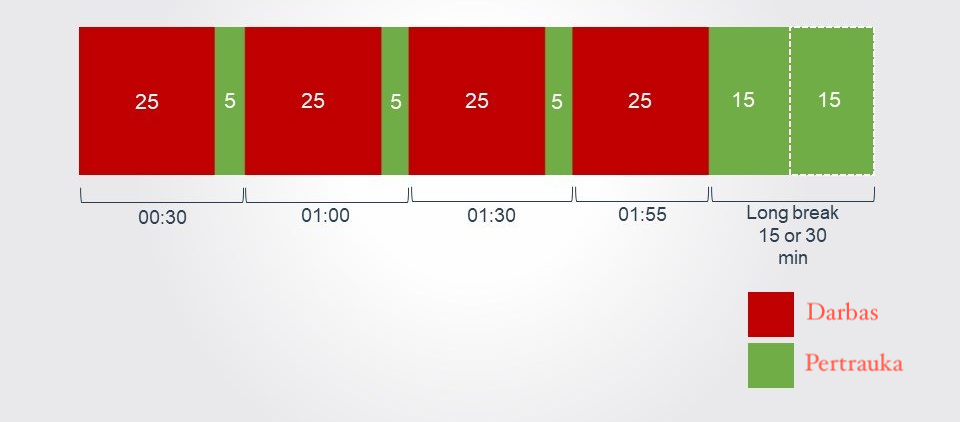
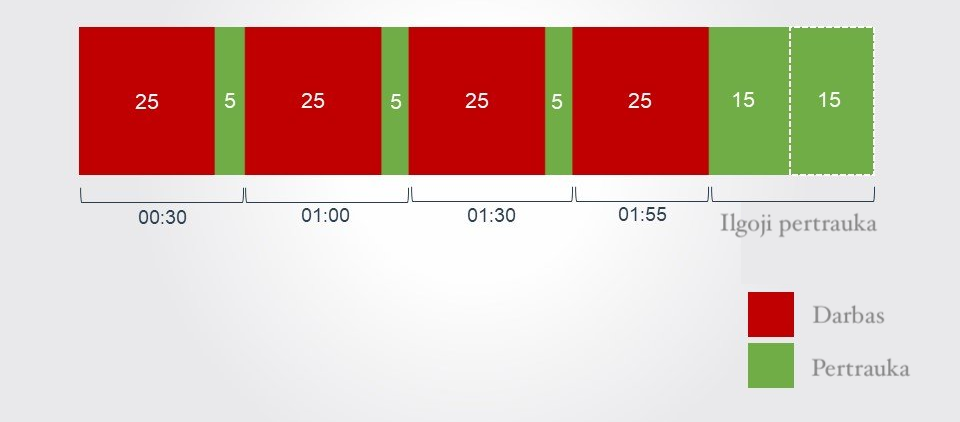
Improve typos in the article

Changed region(s): [[0.75, 0.4929, 0.9375, 0.6469], [0.8438, 0.8318, 0.9688, 0.8934], [0.8438, 0.7085, 0.9375, 0.7701]]

diff --git a/src/css/main.css b/src/css/main.css
@@ -53,6 +53,10 @@ p {
   @apply pl-8;
 }
 
+.custom-page-content ul > li {
+  @apply mb-2;
+}
+
 .custom-page-content a {
   @apply font-semibold;
 }

diff --git a/src/_posts/src/_posts/2020-01-20-pomodoro-technika-ir-patirtis-po-7-metu-naudojimo.md b/src/_posts/src/_posts/2020-01-20-pomodoro-technika-ir-patirtis-po-7-metu-naudojimo.md
@@ -7,25 +7,27 @@ toc: true
 ---
 
 2012 metais pirmą kartą perskaičiau apie Pomodoro techniką. Tais laikais, lyginant su dabar,
-2020, technika tikrai nebuvo populiari. Ir žmonių rašančių apie tai buvo vienetai.
+technika tikrai nebuvo populiari. Ir žmonių rašančių apie tai buvo vienetai.
 
 Kadangi esu mėgėjas visokių straipsnių / knygų / seminarų apie produktyvumą -
-nekantravau išbandyti. Dabar, panaudojus 7+ metus dažnai norisi su kitais pasidalinti,
+nekantravau išbandyti. Dabar, panaudojus daugiau nei 7 metus dažnai norisi su kitais pasidalinti,
 kad tai yra bene pats geriausias produktyvumo įprotis kurį išsiugdžiau.
 
 Prie kompiuterio praleidžiu tikrai daug laiko. Kaip atrodo mano tipinis darbo mėnuo galima
 pamatyti nuotraukoje žemiau.
 
-{% include post_image.html image="/i/2020/toggl_menuo.png" text="Ekranas iš mano Toggl paskyros kur laiką seku pagal Pomodoro techniką" %}
+{% include post_image.html image="/i/2020/toggl_menuo.png" text="Ekranas iš mano Toggl paskyros kur laiką seku pagal Pomodoro metodo dėka" %}
 
 Laiko apskaitą su {% include external_link.html url="https://toggl.com" text="Toggl įrankiu" %} seku
-nuo tada kai pradėjau naudoti patį Pomodoro. Turiu virš 7 metus duomenų kuriuos
+nuo tada kai pradėjau naudoti patį Pomodoro. Turiu virš 7 metų duomenų kuriuos bet kada
 galiu analizuoti.
 
 Mano darbe - laiko vadyba (ar „valdymas“ kaip sako kiti) yra vienas iš būtinųjų
 dalykų kuriuos reikia išsiugdyti, jeigu nori pasiekti gerų rezultatų. Arba tie
-rezultatai gali būti paprasčiausias pinigai / pelnas / atlyginimas. Šiame
-straipsnyje apie tai, kaip Pomodoro man padeda tai pasiekti.
+rezultatai gali būti paprasčiausiai pinigai / pelnas / atlyginimas.
+
+Šis straipsnis apie tai, kaip Pomodoro man padeda pasiekti tikslus ir užsigugdyti tikrai geležinę
+laiko vadybą.
 
 <!-- toc -->
 
@@ -34,8 +36,9 @@ straipsnyje apie tai, kaip Pomodoro man padeda tai pasiekti.
 Tai labai paprasta technika. Nereikės nei daug mokytis nei daug apie ją skaityti. Dažniausiai
 vieno internetinio straipsnio pilnai pakanka. Arba Wikipedia puslapio.
 
-Technika sukurta 1980 metais ir neturi nieko daugiau, kaip tik laiko paskirstymą intervalais.
-Tradiciškai 25 minutės darbo susikaupus su trumpom, tarkime 5 minučių, pertraukėlėmis.
+Technika sukurta 1980 metais (autorius Francesco Cirillo) ir neturi nieko daugiau, kaip tik
+laiko paskirstymą intervalais. Tradiciškai 25 minutės darbo susikaupus, su trumpom, tarkime
+5 minučių, pertraukėlėmis.
 
 Taip pat tradiciškai, 4 Pomodoro (tos minėtos 25 min.) užbaigiamos ilgesne pertrauka - 15 min.
 arba panašiai.
@@ -47,10 +50,9 @@ iliustruotas žemiau:
 
 Štai kaip tai atrodo mano tipinėje dienoje:
 
-* Darbą pradedu 5 ryto (iš tikrųjų).
+* Darbą pradedu 5 ryto kasdien.
 * Su Toggl Chrome Extension pasileidžiu laikmatį 25 minutėms.
-* Dirbu prie vienos užduoties vienu metu. Jokių Facebook, Slack, chatų ar kitų
-  socialinių tinklų.
+* Dirbu prie vienos užduoties vienu metu. Jokių Facebook, kitų socialinių tinklų ar RSS skaitymo.
 * Suskambus laikmačiui darau kelių minučių pertraukėlę.
 
 ## Ką daryti per pertraukėles
@@ -64,18 +66,21 @@ RSS ar kitokius informacinius srautus. Aš ir pats taip darau.
 
 Tačiau pertraukas daryti yra labai svarbu. Tikrai ne visos pertraukos turi
 baigtis nuo užduoties kompiuteryje iki kažkokios veiklos kompiuteryje. Taip tik
-pavargs akys, nugara, rankos. Todėl pavaikščioti, atsitraukti - yra labai
-svarbu. Ir ne tik per ilgąją pertrauką.
+pavargs akys, nugara, rankos.
+
+Todėl pavaikščioti, atsitraukti - yra labai svarbu. Ir ne tik per ilgąją pertrauką.
+
+Biuruose rekomenduoju daryti dažną „kavos pertraukėlę“. Namie galima užsiimti įvairia veikla -
+minimaliai apsitvarkyti, palaistyti gėles, ką nors pasiruošti rytojui ar pan.
 
 ## Darbo biure problemos
 
-Yra labai daug studijų apie „darbą“ darbe ir dar daugiau (nebūtinai pagrįstų)
-komentarų ar                           xe
-straipsnių, kad tradiciškai darbuotojas per 8 val. dirba tik daugiausiai 6 valandas. Visos
-kitos valandos „išmetamos į balą“: kavų pertraukėlėms, pasišnekėjimams, susirinkimams, darant
+Yra labai daug studijų apie „darbą“ biure ir dar daugiau (nebūtinai pagrįstų)
+komentarų ar straipsnių, kad tradiciškai darbuotojas per 8 val. dirba tik daugiausiai 6 valandas.
+Visos kitos valandos „išmetamos į balą“: kavų pertraukėlėms, pasišnekėjimams, susirinkimams, darant
 ne su darbu susijusią veiklą (kalbėjimas telefonu, naršymas Facebook).
 
-Ir tokiem daluma Pomodoro technika vistiek greičiausiai netinka. Trumpai tariant, gi mokama už
+Ir tokiems darbams Pomodoro technika vistiek greičiausiai netinka. Trumpai tariant, gi mokama už
 buvimą darbe. Skamba labai žiauriai, bet tai yra tiesa, jeigu darbo įvertinimas nepriklauso
 nuo kažkokių rezultatų.
 
@@ -83,21 +88,23 @@ Tačiau kai darbas yra priklausantis nuo rezultatų - labai svarbu dirbti susika
 iš būtinybių - dirbti tokioje aplinkoje, kur gautumėte tą ramybę.
 
 Triukšminguose biuruose tai šiais laikais nesunkiai ištaisoma - ausinėmis arba ausinukais. Aišku,
-jeigu leidžia galimybės. Ne visuose darbo vietose užsidėti ausines yra mažų mažiausiai mandagu.
+jeigu leidžia galimybės. Ne visose darbo vietose užsidėti ausines yra mažų mažiausiai mandagu.
 
 Kitas trikdis gali būti reiklūs kolegos ar vadovai. Tai viena bėdų labai aktyviose IT įmonėse.
-Man yra tekę dirbti tokiose, ir projektų vadovų priėjimai kas 5 minutes būtų prieš Pomodoro.
+
+Man yra tekę dirbti tokiose. Čia projektų vadovų priėjimai kas 5 minutes būtų stipriai prieš
+Pomodoro.
 
 ## Universali technika
 
 Apskritai, kalbant apie IT, tai Pomodoro yra pirmas dalykas ką rekomenduočiau freelanceriams.
 Jų darbas 100% priklauso nuo rezultatų, ne sedėjimo. Tokia technika man pačiam gerokai atsipirko.
 
-Taigi ši technika puikiai veikia prie kompiuterio sėdintiems darbuotojams - ypač programuotojams,
-dizaineriams, marketingistams, pardavimų vadybininkams ir pan.
+Ši technika puikiai veikia prie kompiuterio sėdintiems darbuotojams - ypač programuotojams,
+dizaineriams, marketingistams, pardavimų vadybininkams, straipsnių rašytojams, tyrėjams ir pan.
 
-Arba tobula technika studentams - žmonėms kuriems dažniausiai reikia **prisiversti prisėsti prie
-studijų**. Dabar žiūrint į praeitį labai gaila, kad tada apie tai nieko nežinojau.
+Taip pat tai tobula technika studentams - žmonėms kuriems dažniausiai reikia **prisiversti
+prisėsti prie studijų**. Dabar žiūrint į praeitį labai gaila, kad tada apie tai nieko nežinojau.
 
 Net ir prasčiausiai besimokantiems studentams skirti vieną Pomodoro kartą į dieną greičiausiai
 duotų naudos. Tiesiog atsisėsti ir studijuoti būna sunku. O nusibrėžus labai aiškią ribą kiek
@@ -105,40 +112,43 @@ ir ko daryti - tarkime 25 minutes - pasiekti galima nesunkiai. Man po 7+ metų n
 technikos tos 25 minutės pralekia dažnai kaip kokios 5.
 
 Greičiausiai ši technika netinka fabriko darbuotojams arba žmonėms kurie turi daug
-pasikartojančio darbo. Tokia technika tik išsekintų smegenis. Kaip minėjau, čia labiau tinka
-nuo rezultatų priklausantiems darbų profiliams.
+pasikartojančio darbo. Tokia technika tik išsekintų smegenis. Bet gali būti labai geras įrankis
+kovoti su tingumu. 25 minutės darbo ir einame „apdovanojimo“ - kavos, pasidaryti pertraukėlę ar
+prasimankštinti.
 
 ## Originalios technikos eiga
 
 Minėjau, kad šis „laiko valdymo“ metodas / technika buvo sugalvota 1980 metais. Ją „sukūrė“
 Francesco Cirillo. Jo originalų metodą sudaro 6 žingsniai.
 
-1) Reikia tiksliai žinoti ką norima padaryti. Arba ką per būsimą Pomodoro laiką norima
-padaryti. Todėl greičiausiai reiks su savimi turėti kažkokią užrašų knygutą ar tiktų koks
+1) Reikia tiksliai žinoti kas norima padaryti. Arba ką per būsimą Pomodoro laiką norima
+pasiekti. Todėl greičiausiai reiks su savimi turėti kažkokią užrašų knygutę ar tiktų koks
 elektroninis darbų sąrašas (angl. „todo list“).
 
 2) Laiko intervalo nustatymas darbui. 25 minutės - kaip minėjau yra tradicinis laikas. Internete
 galima rasti ne vieną variaciją: 30 minučių, 60 minučių, 90 minučių. Nesu matęs, kad kas nors
-darytų ilgesnius intervalus nei pusantros valandos.
+darytų ilgesnius intervalus nei pusantros valandos. Bet esu bandęs ilgesnius intervalus nei 90
+minučių (skaitykite toliau).
 
-3) Darbas arba bandymas atliktį užduotį. Originalioje technikoje mano minėto „susikaupimo“
-nėra. Sakyčiau tai nauja tradicija. Juk 1980 metais nebuvo tokių laiko švaistytojų kaip
-telefonai su pranešimais, el. pašto dėžutės ir pan.
+3) Darbas arba bandymas atlikti užduotį. Originalioje technikoje, mano kelis kartus minėto,
+„susikaupimo“ nėra. Sakyčiau tai nauja tradicija. Juk 1980 metais nebuvo tokių laiko švaistytojų
+kaip telefonai su pranešimais, el. pašto dėžutės ir pan.
 
-4) Atliktų Pomodoro pasižymėjimas. Programinė įranga čia tiktų geriausia. Be minėtų Toggl yra
+4) Atliktų Pomodoro pasižymėjimas. Programinė įranga čia tiktų geriausiai. Be minėtų Toggl yra
 daugybė kitų (ir nemokamų) įrankių tiek kompiuteryje, tiek mobiliame telefone. Daug kas šiais
 laikais turi išmaniuosius laikrodžius. Ir ten tai būtų pasiekiama.
 
 Labai gerai, kad internete yra ne vienas nemokamas įrankis kurio net diegti į kompiuterį
 nereikia. Ar registruotis. Vienas tokių būtų
-{% include external_link.html url="http://www.tomato.es" text="Tomato.es" %}
+{% include external_link.html url="http://www.tomato.es" text="Tomato.es" %} kuris veikia tiesiog
+naršyklėje ir net nereikia registruotis.
 
-6) Po ciklo (4 pomodoro) daroma ilgesnė, 15-30 minučių pertrauka. Originalioje technikoje čia
+6) Po pilno ciklo (4 Pomodoro) daroma ilgesnė, 15-30 minučių pertrauka. Originalioje technikoje čia
 žymėjimo ciklas (4 punktas) pradedamas nuo 0.
 
 ## Sprendžia atidėliojimo problemas
 
-Iš patirties atradau, kad tai labai gerai išsprendžia atidėliojimo problemą. Iš
+Per daug metų atradau, kad tai labai gerai išsprendžia atidėliojimo problemą. Iš
 dalies dėl to ir minėjau studentus - atidėlioti studijų dalykus yra bene
 įprastas dalykas.
 
@@ -172,7 +182,7 @@ ilgesnę pertrauką, bet taip darant daug greičiau pavargsti.
 
 ## Limitas kiek Pomodoro gali padaryti per dieną
 
-Turėjau ir viešą profilį su {% include external_link.html url="http://www.tomato.es/users/5073f55fd43b8100020001f4" text="Pomodoro sekimu - Tomato.es" %}.
+Turiu viešą profilį su {% include external_link.html url="http://www.tomato.es/users/5073f55fd43b8100020001f4" text="Pomodoro sekimu - Tomato.es" %}.
 Jame galima pažiūrėti kaip maždaug atrodė mano tipinės dienos.
 
 {% include post_image.html image="/i/2020/tomato_es_metai.png" text="Nuotrauka iš mano Tomato.es profilio - pomdoro pagal dienas" %}
@@ -187,12 +197,14 @@ Pomodoro per dieną (jeigu laiko intervalas yra 25 min.) jau turbūt būtų per 
 
 Reikia tikrai neužmiršti daryti pertraukas. Be pertraukų greičiau ateina
 nuovargis, produktyvumas ir susikaupimas mažėja. Todėl daugiau Pomodoro - nebūtinai
-geriau atsispindi rezultatuose.
+geriau atsispindi rezultatuose (vėliau).
 
 ## Pomodoro technika vaikams
 
-Turiu du vaikus, tačiau Pomodoro su jais dar neeksperimentavau. Tiesa, yra
-tikrai ne vienas straipsnis apie tai, kaip ši technika gelbsti į mokyklą
+Turiu du vaikus, tačiau Pomodoro su jais dar neeksperimentavau. Jie tam dar per
+maži. Bet manau, kad ateityje tikrai išmėginsiu.
+
+Internete yra ne vienas straipsnis apie tai, kaip ši technika gelbsti į mokyklą
 einantiems vaikams.
 
 Tačiau vaikams 25 minutės - tai amžinybė. Priklausomai nuo amžiaus, bet 25
@@ -204,24 +216,23 @@ rezultatai gerokai pagerėtų.
 
 ## Pomodoro ataskaitos
 
-Mano rekomendacija - visada sekti savo pomodoro. Programinės įrangos ta tema -
+Mano rekomendacija - visada sekti savo Pomodoro. Programinės įrangos ta tema -
 gausybė. Nesunkiai rasite ką naudoti. Tiek telefone, tiek naršyklėje, tiek
-kompiuteryje. Net išmaniam telefonui tikrai rasite programėlę.
+kompiuteryje. Net išmaniam laikrodžiui tikrai rasite programėlę.
 
-Paėmus neilgą (pusmečio) intervalą iš ataskaitų galima pamatyti įvairių įdomių
-dalykų.
+Paėmus neilgą (pusmečio) intervalą iš ataskaitų galima pamatyti įdomių dalykų.
 
 {% include post_image.html image="/i/2020/tomato_es_dienos.png" text="Nuotrauka iš mano Tomato.es profilio ataskaitos" %}
 
-Iš nuotraukos aukščiau matyti, kad per dieną turėdavau net 11 valandų dienoje
-kurioje darbo padarydavau daugiausiai (užregistruodavau daugiausia pomodoro).
+Iš nuotraukos aukščiau matyti, kad per dieną turėdavau net 11 valandų per kurias
+darbo padarydavau daugiausiai (užregistruodavau daugiausiai Pomodoro).
 Taip, iš tiesų dirbdavau po 10-12 valandų tipiškai.
 
-Tada darbą pradėdavau nuo 6 ryto (nors nuotraukoje matosi laikas registruotas
-nuo 4). Manau, kad tai dėl programos laiko juostų skirtumo.
+Tada darbą pradėdavau nuo 6 ryto. Nors nuotraukoje matosi laikas registruotas
+nuo 4 ryto, manau, kad tai dėl programos laiko juostų skirtumo.
 
 Ir akivaizdu, kad tas kėlimasis nuo 6 nebūdavo produktyviausias dalykas - nes
-tam laikui registruotų pomodoro - sąlyginai mažai.
+tam laikui registruotų Pomodoro - sąlyginai mažai.
 
 Taip buvo dėl to, kad ryte atsikėlęs darydavau planavimo fazę. T.y.
 susiplanuodavau dienos darbus, pasitikrindavau el. paštą, RSS srautą, Facebook.
@@ -234,7 +245,7 @@ el. paštą pasitikrindavau per pertraukas.
 ## Privalomos 8 valandos - niekaip
 
 Biure būti reikia 8 valandas. Jeigu galvosite pritaikyti savo darbo eigoje
-pomodoro, tai turbūt greitai išskaičiuosite, kad jeigu per valandą turėtumėte
+Pomodoro, tai turbūt greitai išskaičiuosite, kad jeigu per valandą turėtumėte
 turėti 2 pertraukas po 5 min. (viso 10 minučių), tai per 8 valandas tų pertraukų
 bus mažiau nei pusantros valandos. Tai - labai daug.
 
@@ -242,24 +253,24 @@ Ir jeigu su šia idėja pasidalintumėte su savo vadovu, greičiausiai tokiam da
 metodui jis nepritartų.
 
 Deja, realybė dažniausiai (beveik visada) tokia, kad net per pus mažiau laiko
-skiriant su pomodoro padaroma daugiau nei tiesiog būnant biure 8 valandas.
+skiriant su Pomodoro padaroma daugiau nei tiesiog būnant biure 8 valandas.
 
 Tai viena iš priežasčių ką stebėdamas Tomato.es ataskaitas pastebėjau. Dirbau
-prie IT projektų (freelancinau) turėdamas normalų darbą. Atradęs pomodoro ir
-kelis mėnesius prie jo pasipratinęs pamačiau, kad tas pats freelance, kur mokama
+prie IT projektų („freelancinau“) turėdamas normalų darbą. Atradęs Pomodoro ir
+kelis mėnesius prie jo pasipratinęs pamačiau, kad tas pats „freelance“, kur mokama
 už rezultatą, o ne už dirbtas valandas, atneša daugiau pelno.
 
 Taip atsitiko dėl kelių priežasčių. Pirmiausiai turėjau tikslą kasdien po tam
-tikrą kiekį pomodoro atlikti. Ir retai kada atlikdavau mažiau. Tai padėjo
+tikrą kiekį Pomodoro atlikti. Ir retai kada atlikdavau mažiau. Tai padėjo
 išspręsti atidėliojimų problemą - kai kaip koks studentas užduotį „stumi“ iki
 paskutinės savaitės ar net dienos.
 
 Antra - dėl to, kad per mėnesį skirdavau sąlyginai daugiau laiko susikaupus -
-padarydavau daugiau. O daugiau padarymas konvertavosi į didesnį pelną.
+padarydavau daugiau. O daugiau padarymas konvertavosi į didesnį atlygį.
 
 ## Pomodoro technika tai technika prieš „multitaskinimą“
 
-Anglų kalboje yra labai populiarus terminas - multitasking. Yra labai daug
+Anglų kalboje yra labai populiarus terminas - „multitasking“. Yra labai daug
 tyrimų padarytų ta tema, kur paaiškinta, jog kelių darbų bandymas atlikti vienu
 metu neigiamai veikia ir kūną (greičiau pavargstama) ir tik atitolina
 rezultatus. Nors iš pirmo žvilgsnio tikrai atrodytų, jog du darbus vienu metu
@@ -267,8 +278,9 @@ dirbant - daugiau padaroma.
 
 Tai didelis melas.
 
-Todėl modernaus (šiuolaikinio) Pomodoro būtinybė - dirbti be trikdžių. Tie kas
-dirba prie kompiuterio, turėtų uždaryti visas ne su užduotimi susijusias
+Todėl modernaus (šiuolaikinio) Pomodoro būtinybė - dirbti be trikdžių.
+
+Tie kas dirba prie kompiuterio, turėtų uždaryti visas ne su užduotimi susijusias
 programas, atsitraukti nuo socialinių tikslų, nežiūrėti ar neklausyti foninio
 triukšmo (pavyzdžiui kalbančio radijo).
 
@@ -276,9 +288,9 @@ Aš pats muzikos klausausi (bet ne radijo). Triukšminguose biuruose muzika gali
 padėti labiau susikaupti. Ją daug kur galima klausyti tiesiog per ausines.
 
 Dėl to, ar muzikos klausimas yra „multitaskinimas“ ar ne - labai daug
-ginčyjamsi. Yra padaryta tyrimų, kurie sako, kad darbas tyloje yra
+ginčijamasi. Yra padaryta tyrimų, kurie sako, kad darbas tyloje yra
 produktyvesnis už darbą klausant muzikos per ausines. Net jeigu teorija yra
-tokia, praktiškai kai kam tai veikia atvirškčiai. Anksčiau gal kokius 5 metus
+tokia, praktiškai kai kam tai veikia atvirkščiai. Anksčiau gal kokius 5 metus
 dirbdavau tyloje, dabar - reikia muzikos.
 
 Reikia pabrėžti, kad ne visuose biuruose galima užsidėti ausines. Daug kur tai
@@ -301,5 +313,19 @@ Jis duoda šią galimybę per tokius įrankius (nemokamus) kaip Chrome Extension
 Nors ir veikia ne 100%, bet aš pats naudoju jau virš 5 metų ir iš esmės galima
 susitaikyti su nedidelėmis klaidomis.
 
-Visiškams geek'ams galėtų pamatyti [Pomodoro BASH skriptas](/mano-projektai/pomodoro-bash-skriptas) -
+Visiškiems geek'ams galėtų patikti [Pomodoro BASH skriptas](/mano-projektai/pomodoro-bash-skriptas) -
 irgi naudojau ilgiau nei metus.
+
+## Pabaiga - kaip išmėginti
+
+Dabar žinodami mano 7 metų patirtį galite patys išmėginti Pomodoro. Tikrai labai
+rekomenduoju visiems.
+
+Jokių įrankių nereikia. Šiais laikais laikmatį turi visi - išmaniajame telefone. Todėl
+nieko siųstis, nieko pirkti ar registruotis - nereikės.
+
+Susiraskite užduotį kurią norėsite atlikti. Ir nesvarbu ar ta užduotis yra namų tvarkymas,
+kursinio rašymas, IT projektas ar kažkas kito. Geriausiai čia tiktų koks nors darbas, kurį
+nuolat atidėliojate.
+
+Nusistatykite laiką ir pirmyn!
